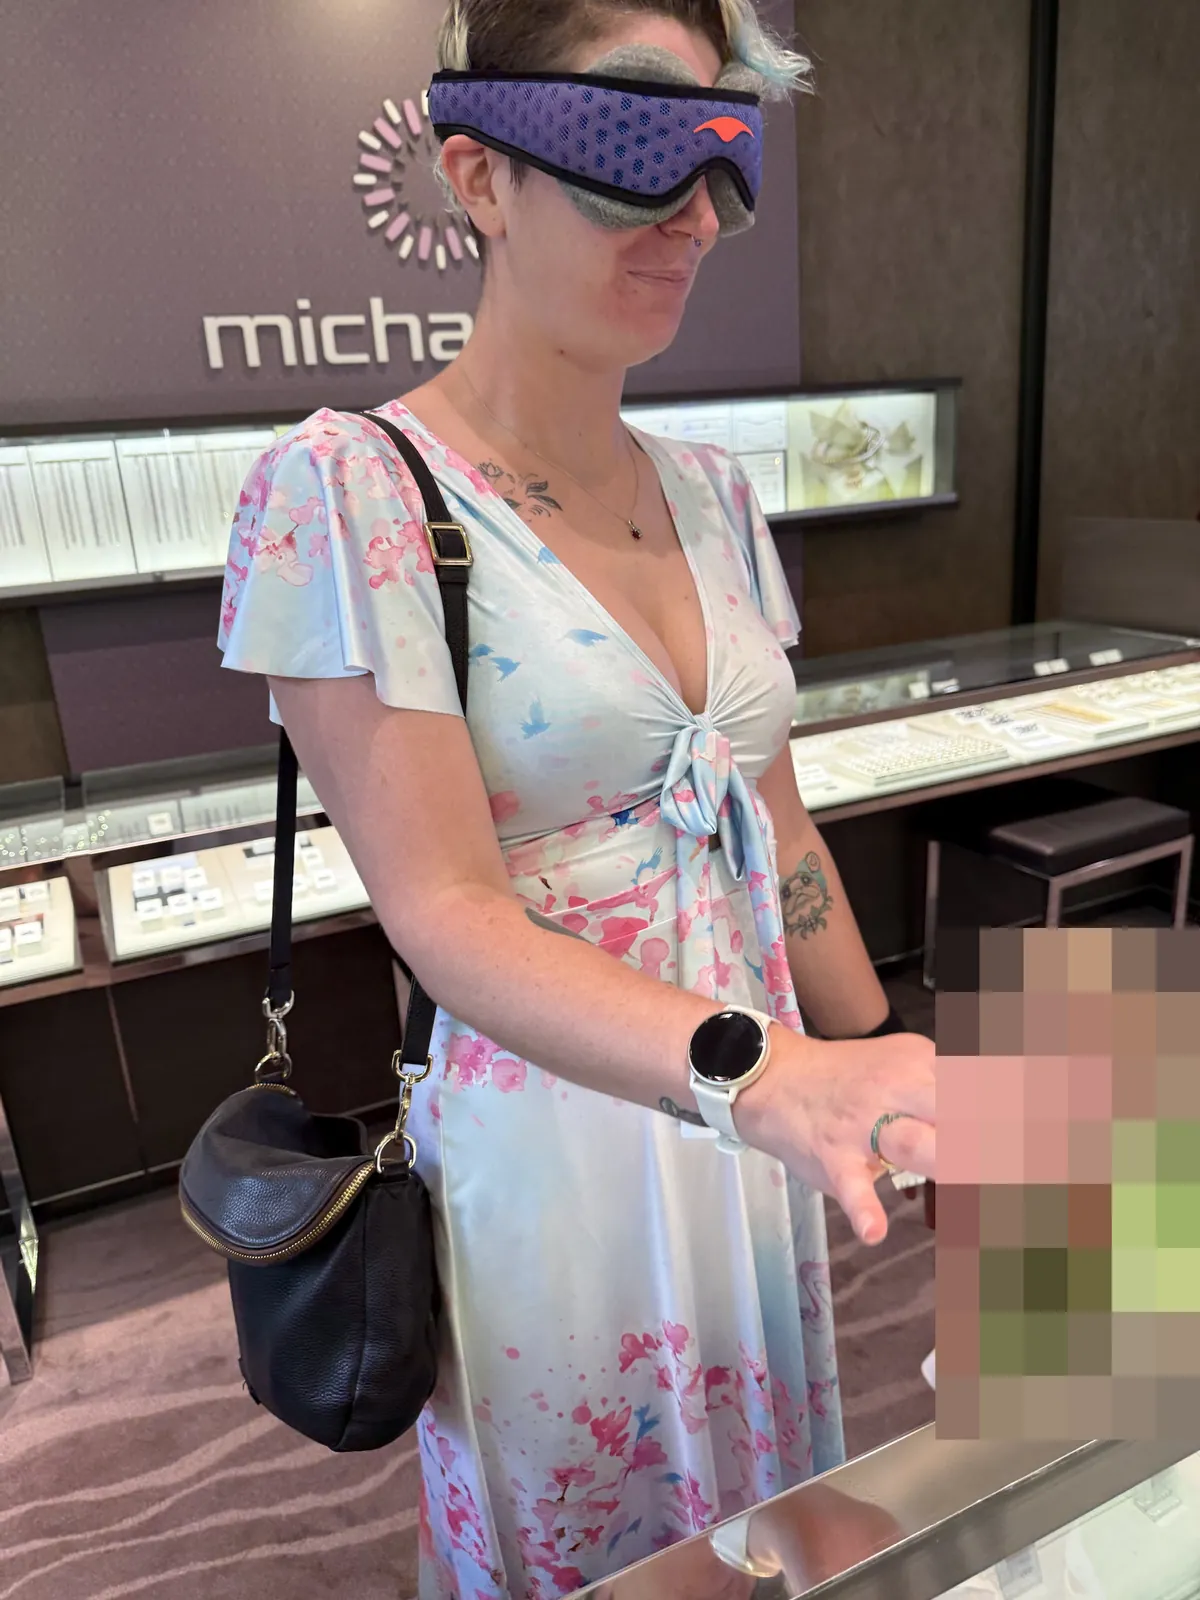
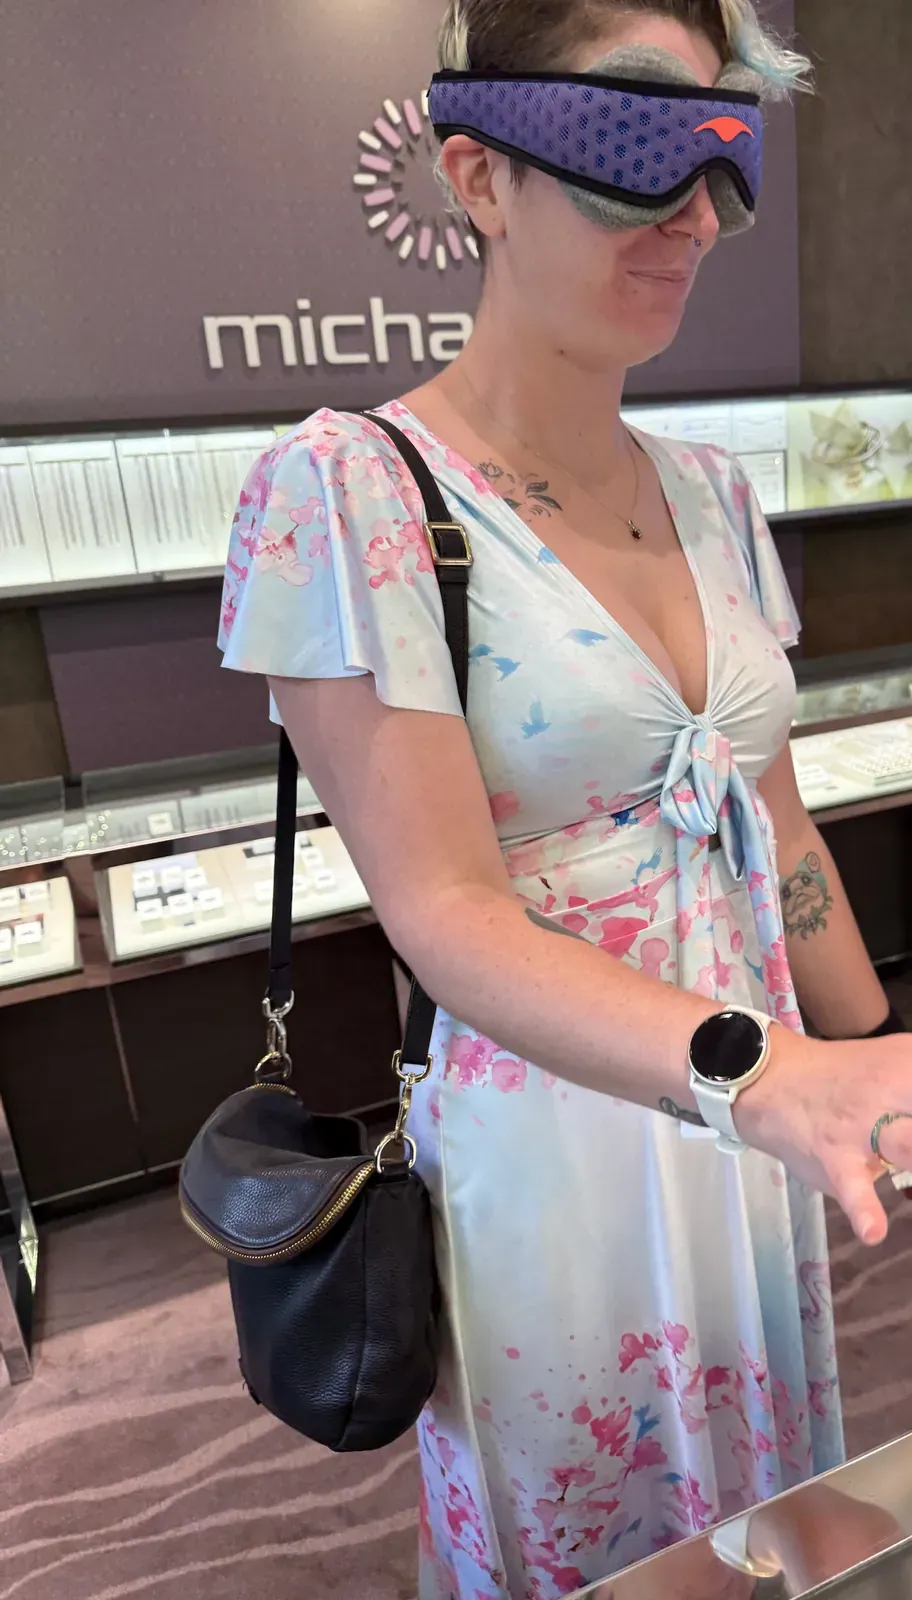
Add seventh batch of album photos and captions
Also crops a bystander out of one existing photo.

Claude-Session: https://claude.ai/code/session_01YZDWdpHwNVwjjYLGtYkgSF

diff --git a/src/content/content.ts b/src/content/content.ts
@@ -169,6 +169,13 @@ export const albums: Album[] = [
       { image: '/assets/albums/a1/11.webp', caption: secret('Same pup, now at a bar, sitting very properly beside a glass of white. Fish is smiling. The pup is guarding the evidence.') },
       { image: '/assets/albums/a1/12.webp', caption: secret('Two curious deer, one brown, one pale as a ghost. Fish is trying not to laugh. They’re plotting something. The otter is watching the white one.') },
       { image: '/assets/albums/a1/13.webp', caption: secret('The pup, out cold on a fluffy white blanket, paws tucked in, pink collar still on. Nobody move. Nobody breathe.') },
+      { image: '/assets/albums/a1/14.webp', caption: secret('A pup sits to attention in a pink collar, head tilted, eyes like two wet pebbles. The otter has never been so thoroughly interrogated.') },
+      { image: '/assets/albums/a1/15.webp', caption: secret('A black cat on a grey blanket, eyes narrowed to yellow slits. The old pro of the house. It knows exactly what you did.') },
+      { image: '/assets/albums/a1/16.webp', caption: secret('Fish leans in for a kiss. The cat leans away with the weary dignity of a veteran. The case notes say: unrequited.') },
+      { image: '/assets/albums/a1/17.webp', caption: secret('Fish in a Winnie-the-Pooh dressing gown, hood up, one eyebrow raised. Do not question the suspect before coffee.') },
+      { image: '/assets/albums/a1/18.webp', caption: secret('One pup, one paw to the face, one Fish trying to survive it. She is laughing. The pup is winning.') },
+      { image: '/assets/albums/a1/19.webp', caption: secret('Fish models a burgundy sweatshirt with a very good dog stitched on the chest and a name on the sleeve. Evidence of devotion, embroidered.') },
+      { image: '/assets/albums/a1/20.webp', caption: secret('Harness on, seatbelt clipped, snoring on the passenger seat. Somebody’s blue sleeve keeps watch.') },
     ],
     draft: true,
   },
@@ -191,6 +198,12 @@ export const albums: Album[] = [
       { image: '/assets/albums/a2/12.webp', caption: secret('A towering black beehive with a white streak, red lipstick and a side-eye. Fish, undercover as a very glamorous villain.') },
       { image: '/assets/albums/a2/13.webp', caption: secret('Fish draws a bow in a field of sheep. The sheep are unbothered. One arrow is already on the grass, which suggests she’s still warming up.') },
       { image: '/assets/albums/a2/14.webp', caption: secret('Pirates in the kitchen: a billowy off-the-shoulder blouse, a chain and some smudged eyeliner. Fish and Goose. Arr. The treasure is each other. Obviously.') },
+      { image: '/assets/albums/a2/15.webp', caption: secret('Fur collar and a horned crown, face to face in a spare room. A warrior and a demon queen. The skull on the staff is the only one not smiling.') },
+      { image: '/assets/albums/a2/16.webp', caption: secret('Pith helmets, binoculars, socks pulled high. Fish and Goose, on safari in a living room, surrounded by jungle. Goose looks like he’s waiting for the bus. Fish is posing for the cover.') },
+      { image: '/assets/albums/a2/17.webp', caption: secret('Fish holds up a galaxy built from tiny bricks, pinks and oranges swirling, with a little tag that reads “You are here.” The detective approves.') },
+      { image: '/assets/albums/a2/18.webp', caption: secret('Fish and two friends in the haze of a festival, glitter and lights everywhere. Everyone looks like they got away with something.') },
+      { image: '/assets/albums/a2/19.webp', caption: secret('A cosy table, a friend with a beard, Fish leaning in over his shoulder. Glasses everywhere. Everyone comfortable. Everyone guilty.') },
+      { image: '/assets/albums/a2/20.webp', caption: secret('Peace signs up in a packed arena. Fish and two friends, thousands behind them, all here for the same very good night.') },
     ],
     draft: true,
   },
@@ -212,6 +225,9 @@ export const albums: Album[] = [
       { image: '/assets/albums/a3/11.webp', caption: secret('One small plate of risotto, one very large reaction. Fish inspects the evidence at close range, fork at the ready.') },
       { image: '/assets/albums/a3/12.webp', caption: secret('Silk robe, tousled hair, a pool behind him. Goose, off duty and looking pleased with himself. The otter allows it. Birthdays have rules.') },
       { image: '/assets/albums/a3/13.webp', caption: secret('Same robe, much bigger grin, a green valley at his back. Goose is having the time of his life. The otter doesn’t ask questions.') },
+      { image: '/assets/albums/a3/14.webp', caption: secret('Fish at a pub table in the blossom dress, tongue out, head tilted, plants all around. Wanted: for being adorable.') },
+      { image: '/assets/albums/a3/15.webp', caption: secret('Lunch with friends at a long wooden table, a big brown jug in the middle. Fish sticks her tongue out in a peace sign. The otter is not surprised.') },
+      { image: '/assets/albums/a3/16.webp', caption: secret('Five friends squeezed into one frame, everybody smiling. A fine crew to be seen with.') },
     ],
     draft: true,
   },
@@ -233,6 +249,12 @@ export const albums: Album[] = [
       { image: '/assets/albums/a4/11.webp', caption: secret('Two espresso martinis, a kiss on the cheek and sunshine through the palms. The otter raises a glass.') },
       { image: '/assets/albums/a4/12.webp', caption: secret('Night falls, fairy lights come on, a DRINKS menu on the table. Fish leans in and smiles like she already knows her order.') },
       { image: '/assets/albums/a4/13.webp', caption: secret('Purple hair, red glasses, fingers steepled, eyes off to one side. Fish is plotting something. The otter would like to know what.') },
+      { image: '/assets/albums/a4/14.webp', caption: secret('Fish on a jet ski in a pink rash vest and yellow life jacket, throwing an OK sign at the camera. Calm water, green headland, a very fast suspect.') },
+      { image: '/assets/albums/a4/15.webp', caption: secret('A ferry table full of friends. Peace signs, sunglasses on heads, the harbour behind them. The otter would like a window seat.') },
+      { image: '/assets/albums/a4/16.webp', caption: secret('Four on a wide wet beach at low tide. One in the foreground, sunglasses on, peace sign up. The rest pretend not to know him.') },
+      { image: '/assets/albums/a4/17.webp', caption: secret('Fish in a striped towel, grinning in a bamboo treehouse with the jungle behind. An unmade bed and one stretched-out leg in the foreground. No further questions.') },
+      { image: '/assets/albums/a4/18.webp', caption: secret('A turquoise plunge pool, a glass of white wine and Fish grinning up at the camera. The otter is filing this under research.') },
+      { image: '/assets/albums/a4/19.webp', caption: secret('A white dog in the shade on a bed of leaves, tongue out, a stick offered in the foreground. Mission: fetch. Status: pending.') },
     ],
     draft: true,
   },
@@ -255,6 +277,11 @@ export const albums: Album[] = [
       { image: '/assets/albums/a5/12.webp', caption: secret('Sun-drenched sand, a cherry-blossom wrap and two heads leaning together. Goose in shades, Fish in the big hat, coconuts on the table. Case closed.') },
       { image: '/assets/albums/a5/13.webp', caption: secret('Fish in a green shirt, beaming over a bowl of baked scallops on black stones. The otter checked the evidence. It looked delicious.') },
       { image: '/assets/albums/a5/14.webp', caption: secret('Lilac space buns, a sparkly outfit and neon light on the floor. Fish, cheek to cheek with a very happy Goose in a cartoon shirt. A good night out.') },
+      { image: '/assets/albums/a5/15.webp', caption: secret('Goose pouts. Fish is rainbow-haired, a little tired, very happy. Cheek to cheek in the softest hoodies in the case file.') },
+      { image: '/assets/albums/a5/16.webp', caption: secret('Asleep, heads together, on a batik pillow, string bracelets crossed over his chest. Nobody is wearing a trench coat. The otter leaves the room.') },
+      { image: '/assets/albums/a5/17.webp', caption: secret('A sleepy selfie in a nest of white pillows. Fish, hair mussed, finger by her mouth, thinking about something. The otter isn’t going to ask.') },
+      { image: '/assets/albums/a5/18.webp', caption: secret('Fish in a sky-blue hoodie in a car park, red glasses, a grin at the lens. Not glamorous. Better than glamorous.') },
+      { image: '/assets/albums/a5/19.webp', caption: secret('Pastel curls, teal-and-purple frames and a small smile at golden hour. The final exhibit.') },
     ],
     draft: true,
   },
